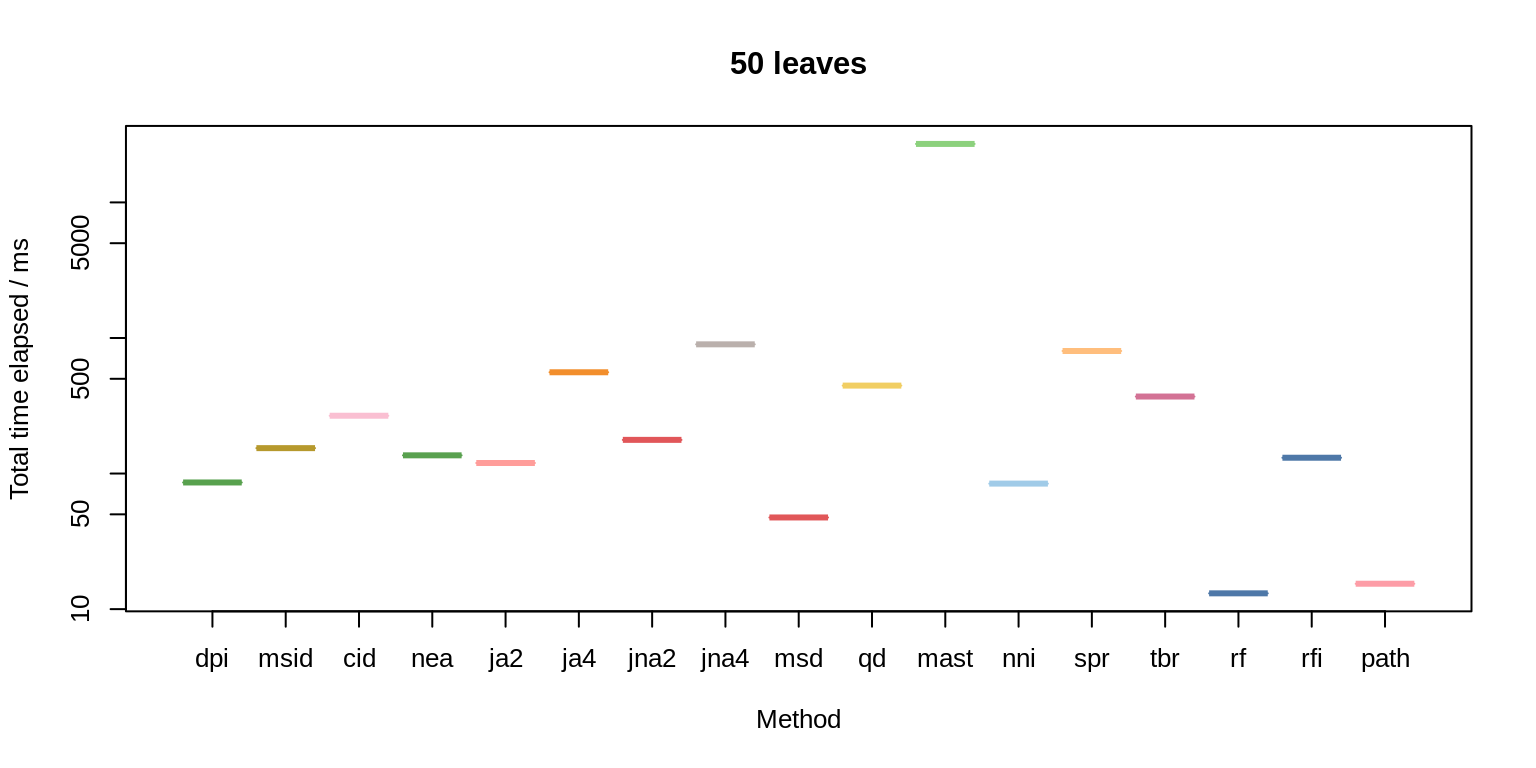
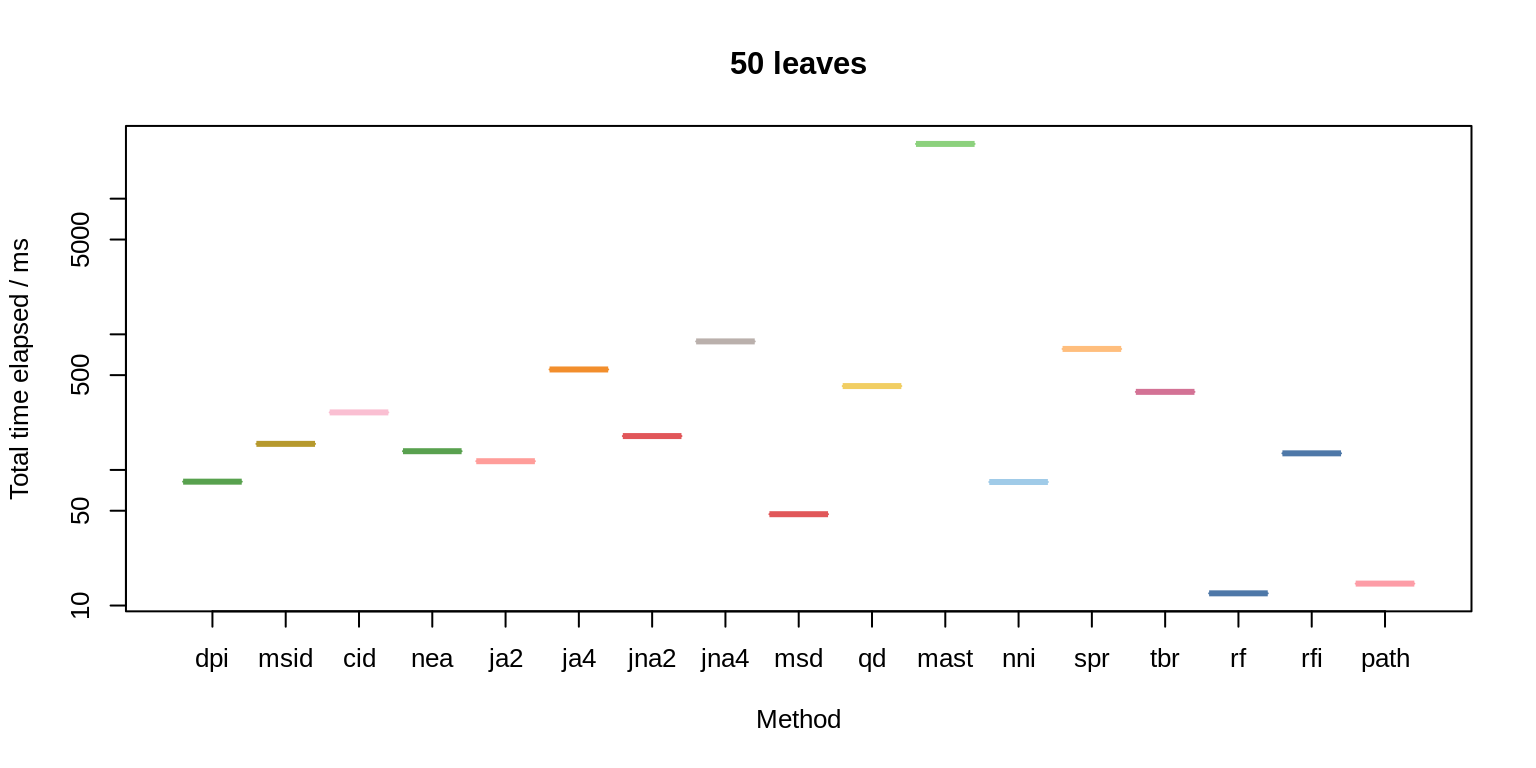
Built site for TreeDistData: 0.0.0.9008@779c09e

diff --git a/articles/timing.html b/articles/timing.html
@@ -142,23 +142,23 @@
 <tbody>
 <tr class="odd">
 <td>Path</td>
-<td align="right">9.7</td>
-<td align="right">16</td>
+<td align="right">9.5</td>
+<td align="right">15</td>
 </tr>
 <tr class="even">
 <td>Robinson-Foulds</td>
-<td align="right">10.0</td>
-<td align="right">13</td>
+<td align="right">9.9</td>
+<td align="right">12</td>
 </tr>
 <tr class="odd">
 <td>Match. Split Dist.</td>
-<td align="right">17.0</td>
+<td align="right">16.0</td>
 <td align="right">48</td>
 </tr>
 <tr class="even">
 <td>Diff. Phylog. Info</td>
-<td align="right">23.0</td>
-<td align="right">87</td>
+<td align="right">22.0</td>
+<td align="right">83</td>
 </tr>
 <tr class="odd">
 <td>Nye et al.</td>
@@ -167,63 +167,63 @@
 </tr>
 <tr class="even">
 <td>Match. Split Info Dist</td>
-<td align="right">26.0</td>
+<td align="right">24.0</td>
 <td align="right">160</td>
 </tr>
 <tr class="odd">
 <td>JRF (k=2, arboreal)</td>
-<td align="right">26.0</td>
+<td align="right">25.0</td>
 <td align="right">120</td>
 </tr>
 <tr class="even">
 <td>JRF (k=2, non-arb.)</td>
-<td align="right">30.0</td>
+<td align="right">28.0</td>
 <td align="right">180</td>
 </tr>
 <tr class="odd">
-<td>JRF (k=4, arboreal)</td>
-<td align="right">46.0</td>
-<td align="right">560</td>
-</tr>
-<tr class="even">
-<td>Robinson-Foulds Info</td>
-<td align="right">46.0</td>
-<td align="right">130</td>
-</tr>
-<tr class="odd">
 <td>Clust. Info. Dist.</td>
-<td align="right">47.0</td>
+<td align="right">42.0</td>
 <td align="right">270</td>
 </tr>
 <tr class="even">
+<td>Robinson-Foulds Info</td>
+<td align="right">43.0</td>
+<td align="right">130</td>
+</tr>
+<tr class="odd">
+<td>JRF (k=4, arboreal)</td>
+<td align="right">44.0</td>
+<td align="right">560</td>
+</tr>
+<tr class="even">
 <td>NNI (approx.)</td>
-<td align="right">61.0</td>
-<td align="right">85</td>
+<td align="right">56.0</td>
+<td align="right">82</td>
 </tr>
 <tr class="odd">
 <td>JRF (k=4, non-arb.)</td>
-<td align="right">66.0</td>
-<td align="right">910</td>
+<td align="right">62.0</td>
+<td align="right">900</td>
 </tr>
 <tr class="even">
 <td>SPR (approx.)</td>
-<td align="right">99.0</td>
-<td align="right">810</td>
+<td align="right">94.0</td>
+<td align="right">790</td>
 </tr>
 <tr class="odd">
 <td>TBR (approx.)</td>
-<td align="right">220.0</td>
-<td align="right">370</td>
+<td align="right">210.0</td>
+<td align="right">380</td>
 </tr>
 <tr class="even">
 <td>Quartet</td>
-<td align="right">250.0</td>
-<td align="right">450</td>
+<td align="right">230.0</td>
+<td align="right">420</td>
 </tr>
 <tr class="odd">
 <td>MAST size</td>
-<td align="right">7000.0</td>
-<td align="right">27000</td>
+<td align="right">6200.0</td>
+<td align="right">26000</td>
 </tr>
 </tbody>
 </table>
